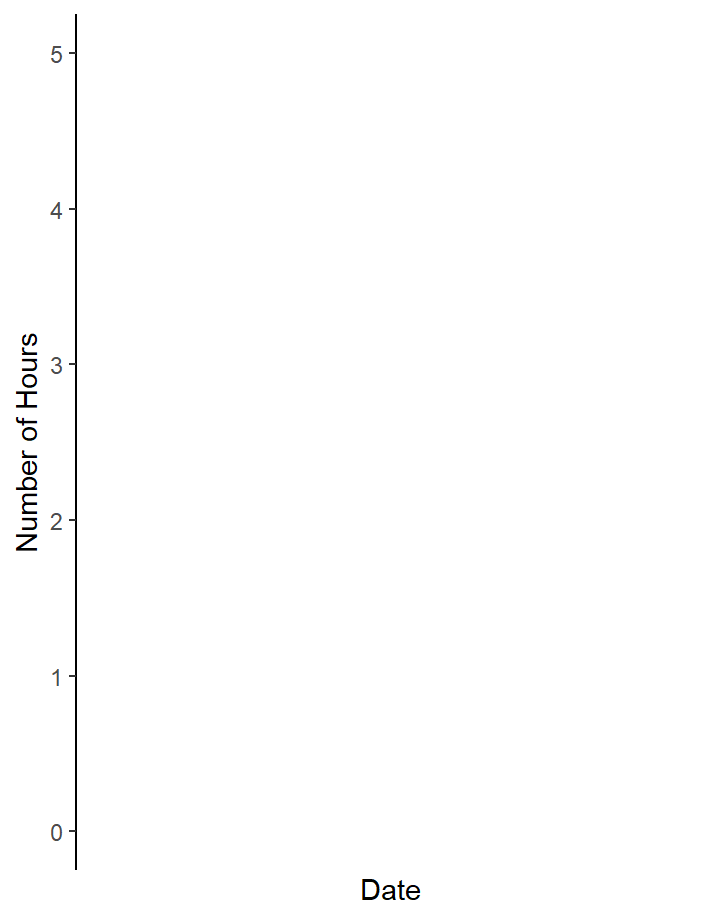
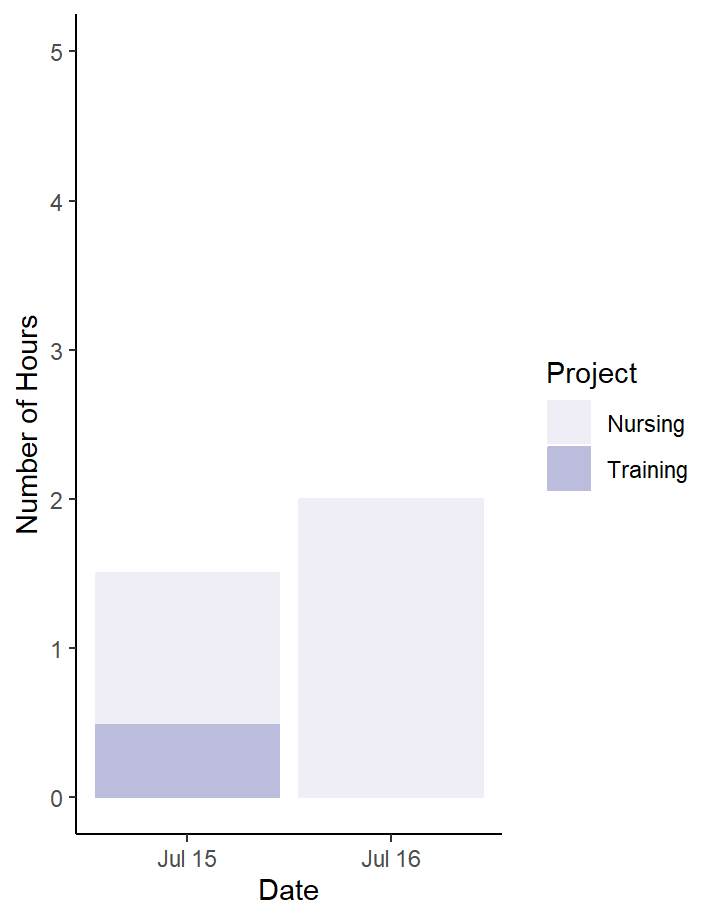
tues am

diff --git a/docs/index.html b/docs/index.html
@@ -1891,6 +1891,13 @@ class="section level3">
 
 </div>
 <table>
+<colgroup>
+<col width="12%" />
+<col width="13%" />
+<col width="9%" />
+<col width="58%" />
+<col width="6%" />
+</colgroup>
 <thead>
 <tr class="header">
 <th align="left">Date</th>
@@ -1901,6 +1908,28 @@ class="section level3">
 </tr>
 </thead>
 <tbody>
+<tr class="odd">
+<td align="left">2024-07-15</td>
+<td align="left">Monday</td>
+<td align="left">Training</td>
+<td align="left">REDCap training module</td>
+<td align="right">0.5</td>
+</tr>
+<tr class="even">
+<td align="left">2024-07-15</td>
+<td align="left">Monday</td>
+<td align="left">Nursing</td>
+<td align="left">Researching Spasticity mechanisms and management</td>
+<td align="right">1.0</td>
+</tr>
+<tr class="odd">
+<td align="left">2024-07-16</td>
+<td align="left">Tuesday</td>
+<td align="left">Nursing</td>
+<td align="left">Researching capturing HCP perspectives, making
+notes</td>
+<td align="right">2.0</td>
+</tr>
 </tbody>
 </table>
 </div>
@@ -1960,61 +1989,80 @@ class="section level3">
 </thead>
 <tbody>
 <tr class="odd">
+<td align="left">2024-07-16</td>
+<td align="left">Nursing</td>
+<td align="left">Researching capturing HCP perspectives, making
+notes</td>
+<td align="right">2.0</td>
+</tr>
+<tr class="even">
+<td align="left">2024-07-15</td>
+<td align="left">Training</td>
+<td align="left">REDCap training module</td>
+<td align="right">0.5</td>
+</tr>
+<tr class="odd">
+<td align="left">2024-07-15</td>
+<td align="left">Nursing</td>
+<td align="left">Researching Spasticity mechanisms and management</td>
+<td align="right">1.0</td>
+</tr>
+<tr class="even">
 <td align="left">2024-07-12</td>
 <td align="left">Planning</td>
 <td align="left">Making meeting notes, listing things to make.</td>
 <td align="right">1.0</td>
 </tr>
-<tr class="even">
+<tr class="odd">
 <td align="left">2024-07-11</td>
 <td align="left">General</td>
 <td align="left">Jennet &amp; Amanda - Meeting to touch base &amp; learn
 about WREM</td>
 <td align="right">1.0</td>
 </tr>
-<tr class="odd">
+<tr class="even">
 <td align="left">2024-07-10</td>
 <td align="left">Nursing</td>
 <td align="left">Revising lay summary, drafing project description,
 working on ref automation.</td>
 <td align="right">3.0</td>
 </tr>
-<tr class="even">
+<tr class="odd">
 <td align="left">2024-07-09</td>
 <td align="left">Nursing</td>
 <td align="left">Generating draft of Lay summary, reviewing project
 parameters, reading about spasticity</td>
 <td align="right">1.0</td>
 </tr>
-<tr class="odd">
+<tr class="even">
 <td align="left">2024-07-09</td>
 <td align="left">Nursing</td>
 <td align="left">Improving draft of Lay summary, reading about types of
 nurses and differences in their educational training</td>
 <td align="right">2.0</td>
 </tr>
-<tr class="even">
+<tr class="odd">
 <td align="left">2024-07-08</td>
 <td align="left">General</td>
 <td align="left">Improving time tracking to show ALL historical tasks
 listed specifically + Total time on each project category.</td>
 <td align="right">0.5</td>
 </tr>
-<tr class="odd">
+<tr class="even">
 <td align="left">2024-07-08</td>
 <td align="left">Nursing</td>
 <td align="left">Reading WeRPN + Lawson Grant Materials, Finding /
 downloading / organizing WeRPN references.</td>
 <td align="right">1.5</td>
 </tr>
-<tr class="even">
+<tr class="odd">
 <td align="left">2024-07-05</td>
 <td align="left">PHAC</td>
 <td align="left">Reading papers, learning about the CTAS and ICD codes,
 making notes.</td>
 <td align="right">3.0</td>
 </tr>
-<tr class="odd">
+<tr class="even">
 <td align="left">2024-07-05</td>
 <td align="left">PHAC</td>
 <td align="left">Reading and assessing field-specific standards for data
@@ -2022,83 +2070,83 @@ visualizatioin. Work on code based approach to generate APA-formatted
 tables through R.</td>
 <td align="right">2.5</td>
 </tr>
-<tr class="even">
+<tr class="odd">
 <td align="left">2024-07-03</td>
 <td align="left">PHAC</td>
 <td align="left">Reading grant, sourcing REB docs, sourcing &amp;
 organizing refs in manager, making notes.</td>
 <td align="right">3.0</td>
 </tr>
-<tr class="odd">
+<tr class="even">
 <td align="left">2024-07-02</td>
 <td align="left">Training</td>
 <td align="left">Responsible Conduct of Research - Second half</td>
 <td align="right">1.0</td>
 </tr>
-<tr class="even">
+<tr class="odd">
 <td align="left">2024-07-02</td>
 <td align="left">General</td>
 <td align="left">Upload Certificates to ReDA, emails</td>
 <td align="right">0.5</td>
 </tr>
-<tr class="odd">
+<tr class="even">
 <td align="left">2024-06-29</td>
 <td align="left">Training</td>
 <td align="left">Responsible Conduct of Research - First half of
 module</td>
 <td align="right">1.0</td>
 </tr>
-<tr class="even">
+<tr class="odd">
 <td align="left">2024-06-28</td>
 <td align="left">Training</td>
 <td align="left">Canada GCP - Stage 1 - Basic</td>
 <td align="right">2.0</td>
 </tr>
-<tr class="odd">
+<tr class="even">
 <td align="left">2024-06-28</td>
 <td align="left">Training</td>
 <td align="left">Health Canada Division 5 - Drugs For Clinical Trials
 Involving Human Subjects</td>
 <td align="right">1.0</td>
 </tr>
-<tr class="even">
+<tr class="odd">
 <td align="left">2024-06-27</td>
 <td align="left">General</td>
 <td align="left">Emails, Setting up OneDrive syncing to PC (2FA
 etc.)</td>
 <td align="right">0.5</td>
 </tr>
-<tr class="odd">
+<tr class="even">
 <td align="left">2024-06-26</td>
 <td align="left">Training</td>
 <td align="left">TCPS Modules A1 - A9 (Certificate provided)</td>
 <td align="right">1.0</td>
 </tr>
-<tr class="even">
+<tr class="odd">
 <td align="left">2024-06-25</td>
 <td align="left">General</td>
 <td align="left">Jennet &amp; Amanda - Meeting to touch base</td>
 <td align="right">1.0</td>
 </tr>
-<tr class="odd">
+<tr class="even">
 <td align="left">2024-06-25</td>
 <td align="left">General</td>
 <td align="left">Setup wuo Staff Account / HR Setup / Payroll Setup</td>
 <td align="right">1.0</td>
 </tr>
-<tr class="even">
+<tr class="odd">
 <td align="left">2024-06-25</td>
 <td align="left">General</td>
 <td align="left">Build Time Tracking Tool</td>
 <td align="right">1.0</td>
 </tr>
-<tr class="odd">
+<tr class="even">
 <td align="left">2024-06-25</td>
 <td align="left">Training</td>
 <td align="left">Lawson SOP training module</td>
 <td align="right">1.0</td>
 </tr>
-<tr class="even">
+<tr class="odd">
 <td align="left">2024-06-25</td>
 <td align="left">Planning</td>
 <td align="left">Writing out meeting notes / plans</td>
